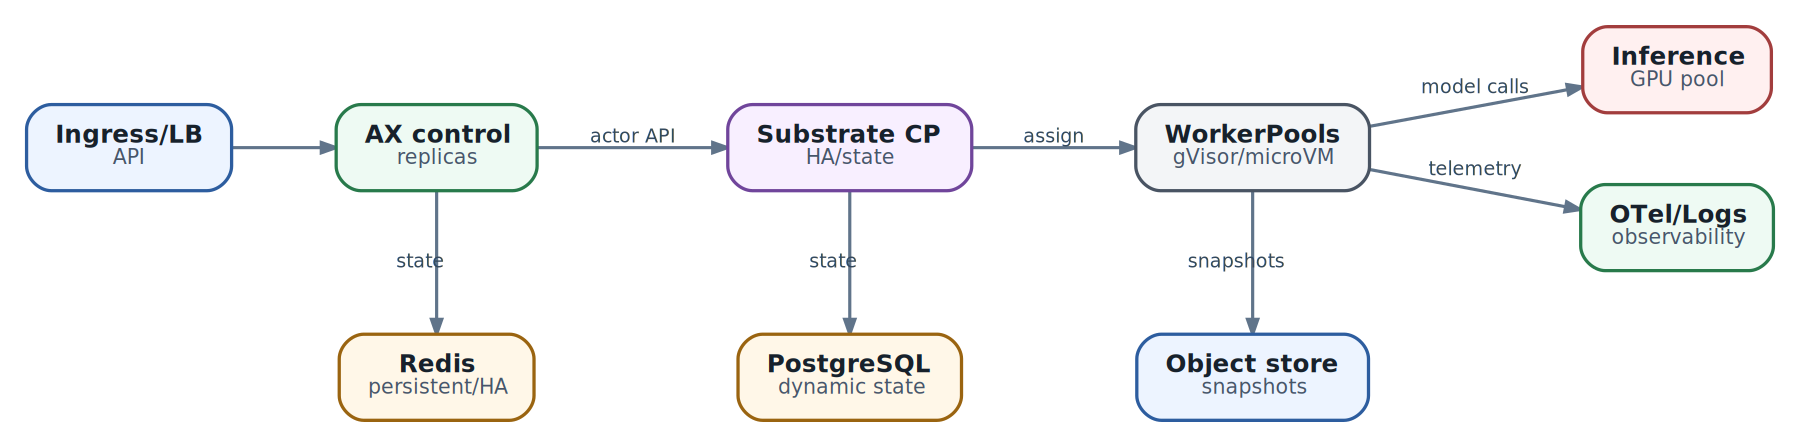
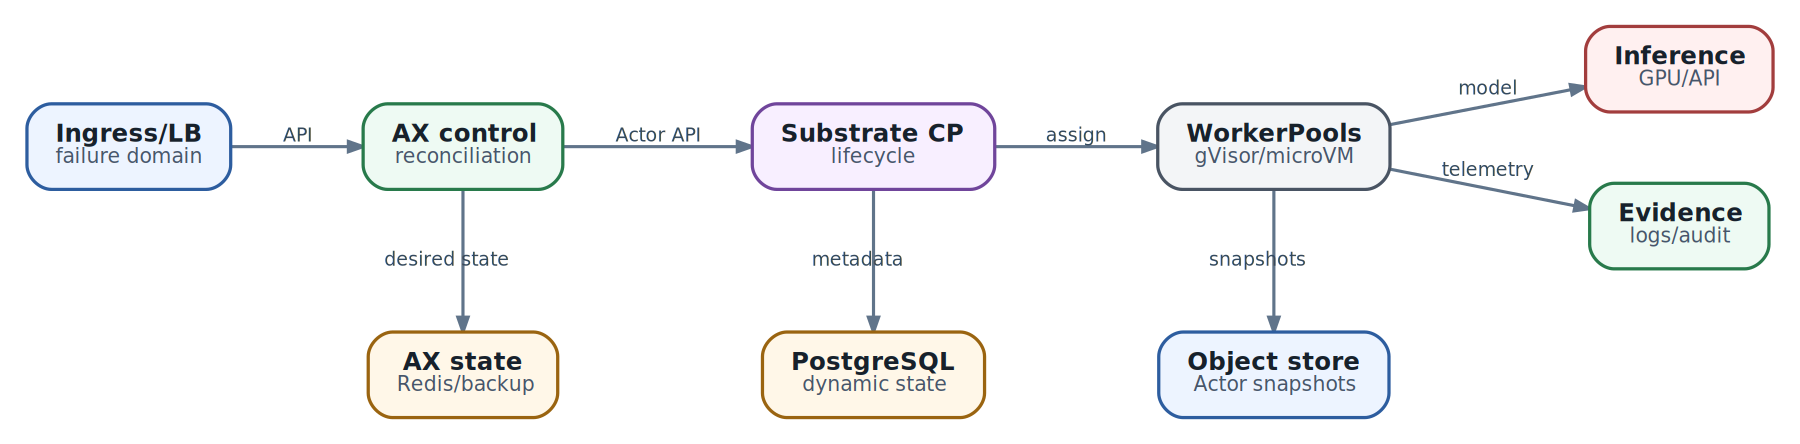
docs: publish collision-free redrawn diagrams [skip ci]

diff --git a/docs/27-production-engineering.md b/docs/27-production-engineering.md
@@ -1,40 +1,236 @@
-# Production engineering: HA, persistence, upgrades и DR
+# Production engineering: как доказать HA, persistence, upgrades и DR
 
-![Production-like topology: failure domains должны быть явными](.gitbook/assets/diagrams/27-25.png)  
-*Production-like topology: failure domains должны быть явными*
+**Снимок главы:** **AX main `ac233282` · Substrate main `df78882` · проверено 2026-10-10**. Оба проекта pre-1.0. Реализованные механизмы, development manifests и рекомендуемая production architecture ниже разделены явно.
 
-Production-like AX/Substrate нужно рассматривать как несколько независимых stateful planes, а не как один application Deployment.
+В лаборатории достаточно увидеть, что Task создался, Actor проснулся и состояние пережило suspend/resume. Production задаёт более неприятные вопросы. Что произойдёт, если node исчезнет во время snapshot? Можно ли обновить dataplane, не потеряв активных Actors? Сколько последних минут состояния допустимо потерять? Как отличить восстановленный Task от повторного выполнения внешнего платежа или публикации?
 
-### Что сохранять
+Ответ «у нас по три replicas» на эти вопросы не отвечает. Доступность API, сохранность данных, возможность восстановления и безопасность повторного исполнения - разные свойства. Их проектируют отдельно, а затем связывают общим recovery contract.
 
-**AX state:** manifests/status/events в Redis - определить persistence/replication/backup strategy и RPO.  
-**Substrate dynamic state:** PostgreSQL - HA, PITR/backup, consistency с snapshot metadata.  
-**Snapshot blobs:** object storage - durability, lifecycle, versioning/retention, throughput.  
-**Container images:** registry - immutable digests и availability.  
-**Secrets/identity:** Kubernetes/external secret store, CA/JWT/SPIFFE material.  
-**Observability:** separate backend с retention.
+![Production-like topology: availability зависит от всей цепочки stateful и stateless planes](.gitbook/assets/diagrams/27-25.png)  
+*Production-like topology: availability зависит от всей цепочки stateful и stateless planes*
 
-### HA не равно «реплик больше»
+## Четыре разных свойства production-системы
 
-API replicas требуют load balancing и shared state. Controllers требуют правильных consumer groups/locks/idempotency. PostgreSQL/Redis HA добавляет собственные failure modes. Object store должен выдерживать одновременно restore burst и checkpoints. WorkerPool availability зависит от Kubernetes nodes и image locality.
+Инженеры часто используют слово «надёжность» для всего сразу. Это скрывает решения.
 
-### Upgrade discipline
+| Свойство | Вопрос | Чем доказывается |
+| --- | --- | --- |
+| Availability | Принимает ли система новые запросы во время отказа? | SLO, multi-zone topology, failover test, dependency health |
+| Durability | Сохранится ли уже подтверждённое состояние? | replication, backup policy, checksum, retention и immutability |
+| Recoverability | Можно ли вернуть согласованную систему после разрушения? | проверенный restore, RTO/RPO и dependency order |
+| Execution safety | Не повторит ли восстановленный агент внешний side effect? | idempotency key, operation ledger, reconciliation и human review |
 
-Для pre-1.0 компонентов:
+Replica отвечает только на часть availability. Она не исправляет логическую порчу данных, удаление operator-ом, несовместимую schema migration или повторный tool call. Реплика может очень быстро распространить ошибку. Поэтому **replication не заменяет backup, а backup не считается защитой, пока restore не проверен**.
 
-1. Pin exact versions/images.
-2. Read breaking release notes.
-3. Test snapshot compatibility.
-4. Upgrade lab/staging.
-5. Create recovery point.
-6. Upgrade control plane before/after workers согласно конкретной compatibility matrix.
-7. Run create/suspend/resume/delete and egress tests.
-8. Roll gradually.
+## RPO, RTO и failure domain
 
-### DR questions
+**RPO** - сколько подтверждённого состояния допустимо потерять. **RTO** - сколько времени допустимо восстанавливать service. Эти цели задаются отдельно для каждого plane. Требование «RPO 0 и RTO 30 секунд для всего» обычно означает синхронную replication, горячий standby и высокую стоимость, но всё равно не решает duplicate external effects.
 
-Восстановление должно отвечать: можно ли поднять AX desired resources из backup, сопоставятся ли они с Substrate Actors, доступны ли snapshot URIs, совместимы ли sandbox assets, какие external side effects уже произошли. Документированный DR drill важнее наличия файлов backup.
+**Failure domain** - набор компонентов, которые могут исчезнуть одной причиной: process, Pod, node, rack/zone, cluster, region, cloud account или credentials domain. Две replicas на одном node защищают от падения process, но не node. PostgreSQL replica в той же zone не защищает от zone outage. Backup в том же account может быть удалён теми же скомпрометированными credentials.
 
-### Capacity reserve
+| Plane | Пример цели | Главная цена | Что проверить |
+| --- | --- | --- | --- |
+| AX API/status | короткий RTO, небольшой RPO desired state | репликация store и безопасный multi-writer | failover не создаёт два Actor для одного Task |
+| Substrate lifecycle | Actor metadata доступна после node loss | PostgreSQL HA/PITR и согласованность snapshot references | Actor можно найти, revert/resume работает по контракту |
+| Actor snapshots | потеря не более последнего допустимого checkpoint | object durability, bandwidth и retention | blob читается, checksum верен, runtime совместим |
+| Audit/evidence | не терять security и side-effect evidence | append-only storage и отдельный trust domain | можно доказать, какие действия уже выполнены |
 
-Нельзя держать WorkerPool и inference GPU на 100% average utilization. Resume burst, compaction, node drain и model load требуют headroom. Резерв задаётся через SLO/benchmark, а не фиксированными 20% для всех систем.
+Числа в таблице должны стать вашими числами. Сначала product owner определяет ущерб от потери и недоступности; затем архитектура выбирает replication, backup frequency и reserve. Не наоборот.
+
+## Инвентаризация состояния: что является source of truth
+
+DR начинается не с команды backup, а с ответа «какое состояние authoritative и кто им владеет?» Для AX/Substrate минимум выглядит так:
+
+| Состояние | Владелец | Можно ли пересоздать? | Что нужно для восстановления |
+| --- | --- | --- | --- |
+| Task/Workspace/Model specs, status, events | AX store | specs - из Git только при строгом GitOps; live status - нет | backup Redis/другого production store, schema version, manifests |
+| Actor, assignment, lifecycle metadata | Substrate/PostgreSQL | не безопасно угадывать | database backup/PITR, migrations, Actor IDs |
+| Memory/filesystem checkpoints | Substrate/object store | обычно нет | snapshot blobs, metadata, checksum, runtime/image compatibility |
+| Worker Pods и caches | Kubernetes/dataplane | да | WorkerPool spec, images, node labels, capacity |
+| Images и sandbox assets | registry/release pipeline | только из reproducible build | immutable digest, provenance, old and new release images |
+| Secrets, CA, signing keys | identity/secret system | не всегда | separate encrypted backup, rotation and revocation procedure |
+| External side effects | внешняя authoritative system | не часть cluster restore | operation ID, idempotency key, receipt и reconciliation API |
+
+Особенно опасна связь PostgreSQL metadata с object blobs. База может утверждать, что snapshot существует, пока blob ещё не завершён или уже удалён lifecycle policy. И наоборот, object store может содержать orphan blobs. Backup этих систем в разные моменты времени не образует автоматически согласованную recovery point.
+
+Зафиксируйте recovery manifest: cutoff time, версии схем, database backup ID, object-store version/generation, registry digests и key versions. Если атомарный cross-store snapshot невозможен, restore procedure должна уметь выбрать последний полностью завершённый checkpoint и отбрасывать incomplete references.
+
+## Что реально развёртывают текущие manifests
+
+Нельзя читать README quickstart как production blueprint.
+
+- На снимке AX `ac233282` manifest `deploy/ax-server.yaml` задаёт одну replica `ax-server`.
+- `deploy/redis.yaml` запускает одиночный Redis как `Deployment` без PVC и без настроенной persistence/replication.
+- Substrate development quickstart устанавливает bundled PostgreSQL и RustFS, удобные для локальной проверки, но не объявляет их готовой HA/backup architecture.
+- AX использует `v1alpha1` resources и прямо предупреждает о breaking changes до стабильного релиза.
+- Substrate содержит конкретный rolling-upgrade runbook, однако compatibility всё равно определяется выбранными release pair и documented preconditions.
+
+Следствие простое: **текущий quickstart нельзя сделать production-ready добавлением одного Helm value**. Нужно выбрать production stores, identity, topology, backup, upgrade authority и наблюдаемость, а затем проверить интеграцию. Если конкретный компонент не документирует multi-replica semantics, не предполагайте, что горизонтальное масштабирование безопасно.
+
+## HA - свойство цепочки, а не Deployment
+
+### Stateless API всё равно имеет stateful dependencies
+
+Несколько API replicas полезны только если:
+
+- requests можно безопасно отправить любой replica;
+- leader election/locks исключают двойную reconciliation там, где это нужно;
+- store выдерживает concurrent clients и имеет согласованный failover;
+- retry не превращает timeout в duplicate create/tool action;
+- load balancer проверяет readiness, а не только открытый TCP port;
+- replicas распределены по реальным failure domains.
+
+Readiness должна означать способность обслужить полезный запрос. Процесс с живым HTTP endpoint, но без Redis, PostgreSQL, Substrate API или signing service, не Ready.
+
+### PDB защищает не от всех отказов
+
+PodDisruptionBudget ограничивает voluntary evictions, например при controlled node drain. Он не предотвращает падение node, kernel panic, потерю zone или удаление Pods напрямую. PDB с `minAvailable: 2` также бесполезен, если все replicas оказались на одном node. Нужны topology spread/anti-affinity, достаточное число nodes и capacity, чтобы replacement действительно разместился.
+
+### Stateful stores добавляют собственную distributed system
+
+PostgreSQL HA, Redis replication/Sentinel/Cluster или managed equivalents несут свои quorum, failover, fencing и lag semantics. Выбор должен исходить из RPO/RTO и write model AX/Substrate, а не из привычки команды. После failover клиент обязан переподключиться к новому writer, не записав одновременно в старый split-brain endpoint.
+
+Для PostgreSQL PITR требует base backup и непрерывного архива WAL. Для Redis RDB и AOF дают разные компромиссы durability/performance. Название технологии не является политикой: зафиксируйте режим, fsync/backup interval, retention, restore command и измеренный worst-case data loss.
+
+## Backup design: три копии недостаточно без semantics
+
+Рабочая политика отвечает на вопросы:
+
+1. Что именно входит в backup и какой plane намеренно исключён?
+2. Какой consistency point связывает database и object storage?
+3. Где хранятся encryption keys и кто может удалить backup?
+4. Как обнаруживается silent corruption?
+5. Как часто выполняется restore test и кто подписывает результат?
+6. Можно ли восстановить старую release, если новая уже изменила schema?
+
+Храните backup вне основного failure и credentials domain. Используйте versioning/object lock там, где threat model требует защиты от ransomware или operator deletion. Проверяйте не только наличие файла, но и checksum, decryptability, schema migration и запуск минимального workload после restore.
+
+Kubernetes objects также требуют стратегии. GitOps repository восстанавливает declared resources, но не status, dynamically created objects, Secrets и данные PVC. Для self-managed Kubernetes нужен отдельный план etcd backup; managed control plane не освобождает от backup application state.
+
+## Upgrade engineering: совместимость важнее порядка команд
+
+Upgrade AX/Substrate пересекает несколько version boundaries одновременно:
+
+- Kubernetes API и node version skew;
+- AX `v1alpha1` resource schema, CLI и server;
+- Substrate controller, API, atelet и Worker images;
+- PostgreSQL schema migrations;
+- snapshot format и sandbox runtime;
+- runner contract, Workspace assets и Model/tool protocols;
+- identity/trust bundle и credential provider.
+
+Compatibility matrix должна быть release artifact. Для каждой пары old/new укажите: поддерживается ли mixed-version window, можно ли читать old snapshot, можно ли rollback database, какие CRD fields меняются, какой component обновляется первым и какие tests обязательны.
+
+### Безопасный общий протокол
+
+1. **Freeze scope:** зафиксировать old/new SHA, images/digests, migrations, feature flags и owners.
+2. **Проверить preconditions:** stores healthy, backups restorable, WorkerPools имеют reserve, нет активного incident.
+3. **Создать recovery point:** согласованный backup и inventory, а не только VM snapshot.
+4. **Развернуть staging/canary:** прогнать create, route, suspend, resume, revert, delete, egress и side-effect tests.
+5. **Expand before contract:** сначала backward-compatible schema/API, затем новые writers, и только после полного перехода удалять старое.
+6. **Roll по failure domain:** одна node/zone cohort за шаг, с выдержкой и наблюдением SLO.
+7. **Проверить state compatibility:** old и new Actors/snapshots в обе стороны только там, где это обещано.
+8. **Закрыть mixed-version window:** удалить old capacity после подтверждённой устойчивости, сохранить rollback assets.
+
+### Конкретика Substrate на снимке df78882
+
+Зафиксированный rolling-upgrade runbook задаёт порядок: новый `ate-controller`, затем versioned dataplane node за node, затем остальной control plane. Nodes и WorkerPools привязаны label `ate.dev/substrate-version`. Serving WorkerPool не редактируют на месте: его клонируют под новую worker image/version, потому что обычное изменение Deployment может прокатиться через живых Actors.
+
+Перед заменой node workers должны быть корректно drained/suspended. Удаление worker Pod не эквивалентно сохранению Actor: если suspend не завершился в предусмотренное окно, Actor может перейти в `CRASHED`, а recovery потребует `RevertActor` к последнему внешнему snapshot с потерей изменений после него. На single-node cluster rolling upgrade неизбежно становится outage.
+
+```
+kubectl get ds -n ate-system -l app=atelet \
+  -L ate.dev/substrate-version
+kubectl get nodes -L ate.dev/substrate-version
+kubectl get workerpools -A
+```
+
+Эти команды показывают progress, но не доказывают correctness. После каждой cohort нужны lifecycle tests и outcome SLI. Не импровизируйте порядок по общей Kubernetes-интуиции: используйте runbook именно выбранной Substrate release.
+
+### Rollback может быть невозможен
+
+Rollback binary безопасен только если old version понимает новую schema, snapshots и stored data. После destructive migration единственный путь назад может состоять из остановки writes и восстановления pre-upgrade backup, то есть с потерей данных после recovery point. Поэтому у каждого шага должен быть заранее выбран один вариант: instant rollback, roll-forward fix или restore. Фраза «если что откатим image» без этой классификации опасна.
+
+## Capacity reserve как часть HA
+
+Кластер, работающий на 100% average utilization, уже не высокодоступен. При потере node оставшиеся nodes должны принять control-plane Pods, replacement workers и активных Actors. Во время drain появляются suspend/resume I/O, object-store burst и дополнительные reconciliation events. Model rollout может временно держать две копии weights в GPU memory.
+
+Reserve рассчитывается по сценарию, а не фиксированным «20%»:
+
+- N+1 node или потеря целой zone;
+- максимальная upgrade cohort;
+- resume burst после gateway/region recovery;
+- snapshot/checkpoint bandwidth и database compaction;
+- image pull/cache miss после появления чистых nodes;
+- inference queue при недоступности части GPU pool.
+
+Control plane, state stores, WorkerPools и inference лучше иметь в разных capacity pools с priority/taints. Иначе agent workload может вытеснить компоненты, которые нужны, чтобы этот же workload остановить или восстановить.
+
+## Disaster recovery: восстанавливайте причинную цепочку
+
+DR plan должен различать сценарии: потеря node, zone, cluster/region; corruption store; ошибочное удаление; compromise credentials; потеря object store; недоступность external model/tool. Для каждого сценария нужны trigger, incident commander, RPO/RTO, точка остановки writes и authority на failover.
+
+### Порядок восстановления
+
+1. **Contain:** остановить writers и автоматические retries, отозвать скомпрометированные credentials, зафиксировать cutoff.
+2. **Поднять trust foundation:** DNS, networking, KMS/secret store, CA/trust bundles и registry access.
+3. **Восстановить Kubernetes foundation:** cluster, storage classes, admission/network policies и system workloads.
+4. **Вернуть immutable artifacts:** exact AX/Substrate/worker/runner images и configs нужной release.
+5. **Восстановить object snapshots и PostgreSQL:** до согласованного recovery point; проверить references/checksums.
+6. **Запустить Substrate:** сначала control/state plane, затем WorkerPools; не принимать traffic до lifecycle smoke test.
+7. **Восстановить AX state:** manifests/status/events или replay authoritative specs; сопоставить Tasks с Actors.
+8. **Reconcile external side effects:** по operation ledger узнать, что уже произошло; не повторять tool calls вслепую.
+9. **Открывать traffic поэтапно:** synthetic Task, canary tenant, затем cohorts с наблюдением SLO.
+
+Порядок может отличаться в вашей реализации, но dependencies должны быть явными. Запуск AX до доступности authoritative Substrate state может создать ложную картину отсутствующих Actors. Resume до проверки snapshot/runtime compatibility превращает recovery в дополнительное повреждение.
+
+### Минимальный DR drill
+
+Раз в оговорённый период восстановите не пустой control plane, а проверяемую историю:
+
+1. создайте Task, выполните локальное изменение и внешний idempotent side effect;
+2. suspend Actor и запишите correlation/operation IDs;
+3. создайте согласованный backup и уничтожьте isolated test environment;
+4. восстановите environment только по runbook и сохранённым artifacts;
+5. проверьте Task ↔ Actor mapping, snapshot state и отсутствие duplicate side effect;
+6. измерьте фактические RPO/RTO, ручные шаги и missing credentials;
+7. исправьте runbook и повторите drill, пока результат не станет воспроизводимым.
+
+Backup success metric - не число загруженных bytes. Это доля успешных restore drills, фактический RPO/RTO и количество необъяснимых расхождений после reconciliation.
+
+## Production readiness gate
+
+Перед допуском реального workload команда должна показать:
+
+- dependency/state inventory с owner для каждого plane;
+- измеримые availability SLO, RPO и RTO;
+- topology по node/zone/credentials domains, а не только replica count;
+- restorable backups PostgreSQL, AX store, object snapshots, identity и manifests;
+- immutable release BOM и compatibility matrix;
+- проверенный Substrate drain/upgrade path и отдельный AX migration plan;
+- capacity reserve для node/zone loss и rolling upgrade;
+- operation ledger/idempotency для внешних side effects;
+- успешный restore drill с evidence и подписанными результатами;
+- runbooks, доступные при недоступности основного cluster и observability backend.
+
+## Итог
+
+Production engineering AX/Substrate начинается не с replica count. Сначала система разделяется на stateful planes и failure domains. Для каждого plane назначаются source of truth, RPO/RTO, backup и restore owner. Затем проектируются multi-replica semantics, capacity reserve, compatibility matrix и порядок recovery.
+
+Текущие development manifests AX и Substrate дают работающую основу для экспериментов, но не готовую production topology. Особенно важно не приписывать persistence одиночному Redis без PVC, HA - одному PostgreSQL, а rollback - простой замене image. Substrate уже документирует сложный versioned rolling path; его детали показывают, почему live Actors нельзя обслуживать обычным бездумным Deployment rollout.
+
+Когда failure и recovery доказаны, можно честно обсуждать производительность. Следующая глава разложит latency, throughput, active ratio, resume storms, store QPS и object bandwidth, не оптимизируя систему ценой её восстановимости.
+
+### Источники и дальнейшее чтение
+
+- [Substrate rolling upgrade runbook на снимке df78882](https://github.com/agent-substrate/substrate/blob/df788825e6fc13dd7aa5fd283c8f14bd4c818247/docs/upgrade.md)
+- [Substrate architecture на снимке df78882](https://github.com/agent-substrate/substrate/blob/df788825e6fc13dd7aa5fd283c8f14bd4c818247/docs/architecture.md)
+- [Substrate threat model на снимке df78882](https://github.com/agent-substrate/substrate/blob/df788825e6fc13dd7aa5fd283c8f14bd4c818247/docs/threat-model.md)
+- [AX development Redis manifest на снимке ac233282](https://github.com/google/ax/blob/ac2332829f22360ff97b0ba34d94dd0dd782f17e/deploy/redis.yaml)
+- [AX server deployment на снимке ac233282](https://github.com/google/ax/blob/ac2332829f22360ff97b0ba34d94dd0dd782f17e/deploy/ax-server.yaml)
+- [Kubernetes: highly available clusters with kubeadm](https://kubernetes.io/docs/setup/production-environment/tools/kubeadm/high-availability/)
+- [Kubernetes: disruptions и PodDisruptionBudget](https://kubernetes.io/docs/concepts/workloads/pods/disruptions/)
+- [Kubernetes version skew policy](https://kubernetes.io/releases/version-skew-policy/)
+- [Kubernetes: etcd backup and recovery](https://kubernetes.io/docs/tasks/administer-cluster/configure-upgrade-etcd/)
+- [PostgreSQL continuous archiving и PITR](https://www.postgresql.org/docs/current/continuous-archiving.html)
+- [Redis persistence: RDB и AOF](https://redis.io/docs/latest/operate/oss_and_stack/management/persistence/)

diff --git a/docs/SUMMARY.md b/docs/SUMMARY.md
@@ -46,7 +46,7 @@
 * [Identity, authorization и human-in-the-loop: как безопасно делегировать authority агенту](24-identity-authorization-hitl.md)
 * [Observability: от user goal до подтверждённого результата](25-observability.md)
 * [Лабораторный стенд на Proxmox/KVM: от первого запуска до production rehearsal](26-proxmox-kvm-lab.md)
-* [Production engineering: HA, persistence, upgrades и DR](27-production-engineering.md)
+* [Production engineering: как доказать HA, persistence, upgrades и DR](27-production-engineering.md)
 * [Performance и scaling: что реально ограничивает систему](28-performance-scaling.md)
 * [Failure modes и troubleshooting handbook](29-failure-modes-troubleshooting.md)
 * [Когда AX нужен, а когда проще другой инструмент](30-when-to-use-ax.md)
